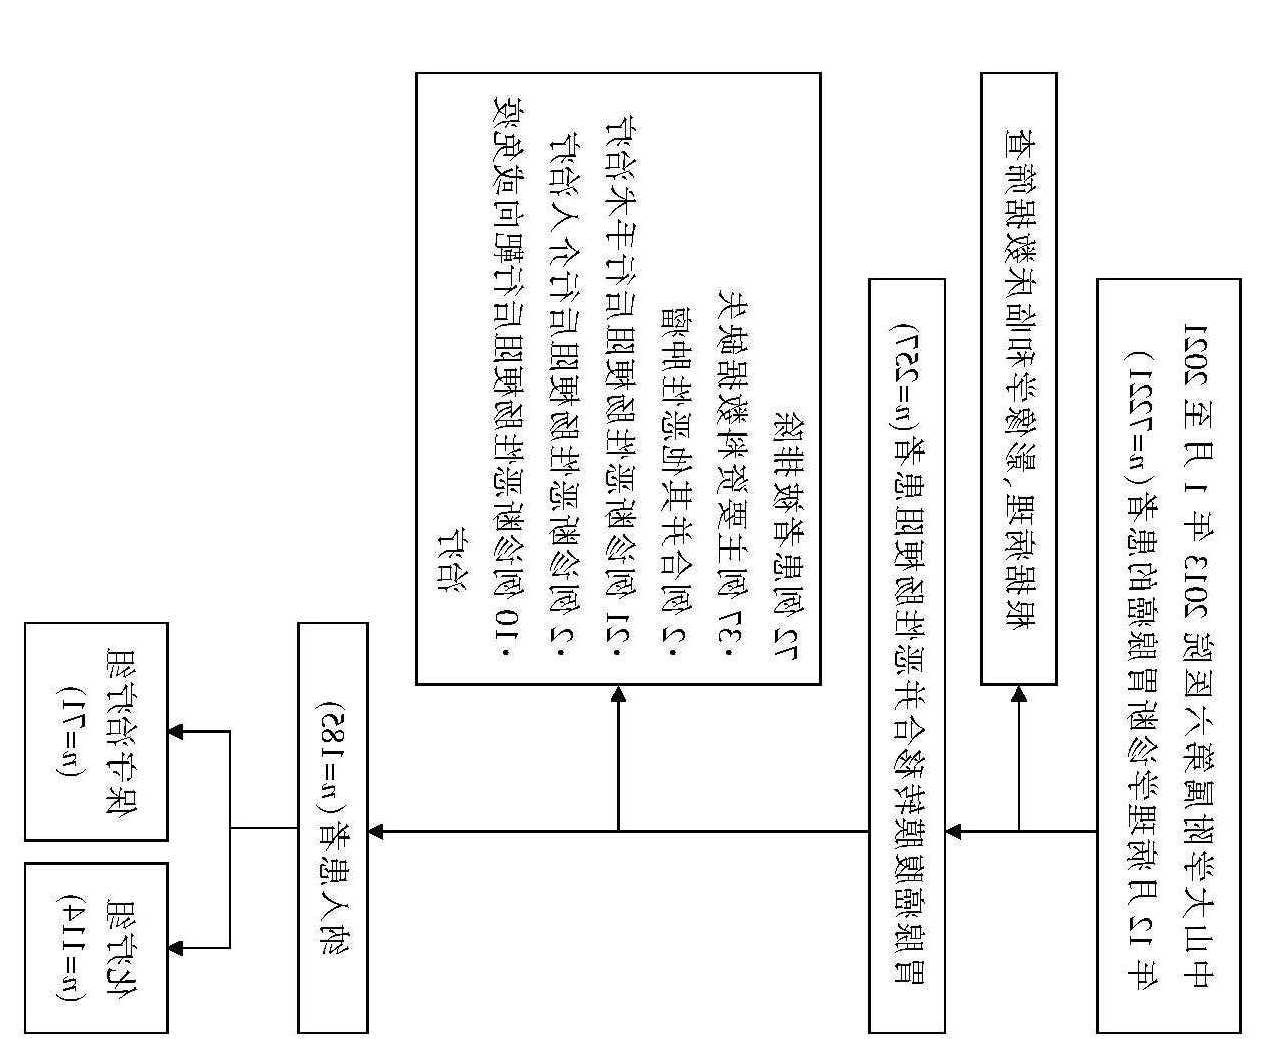
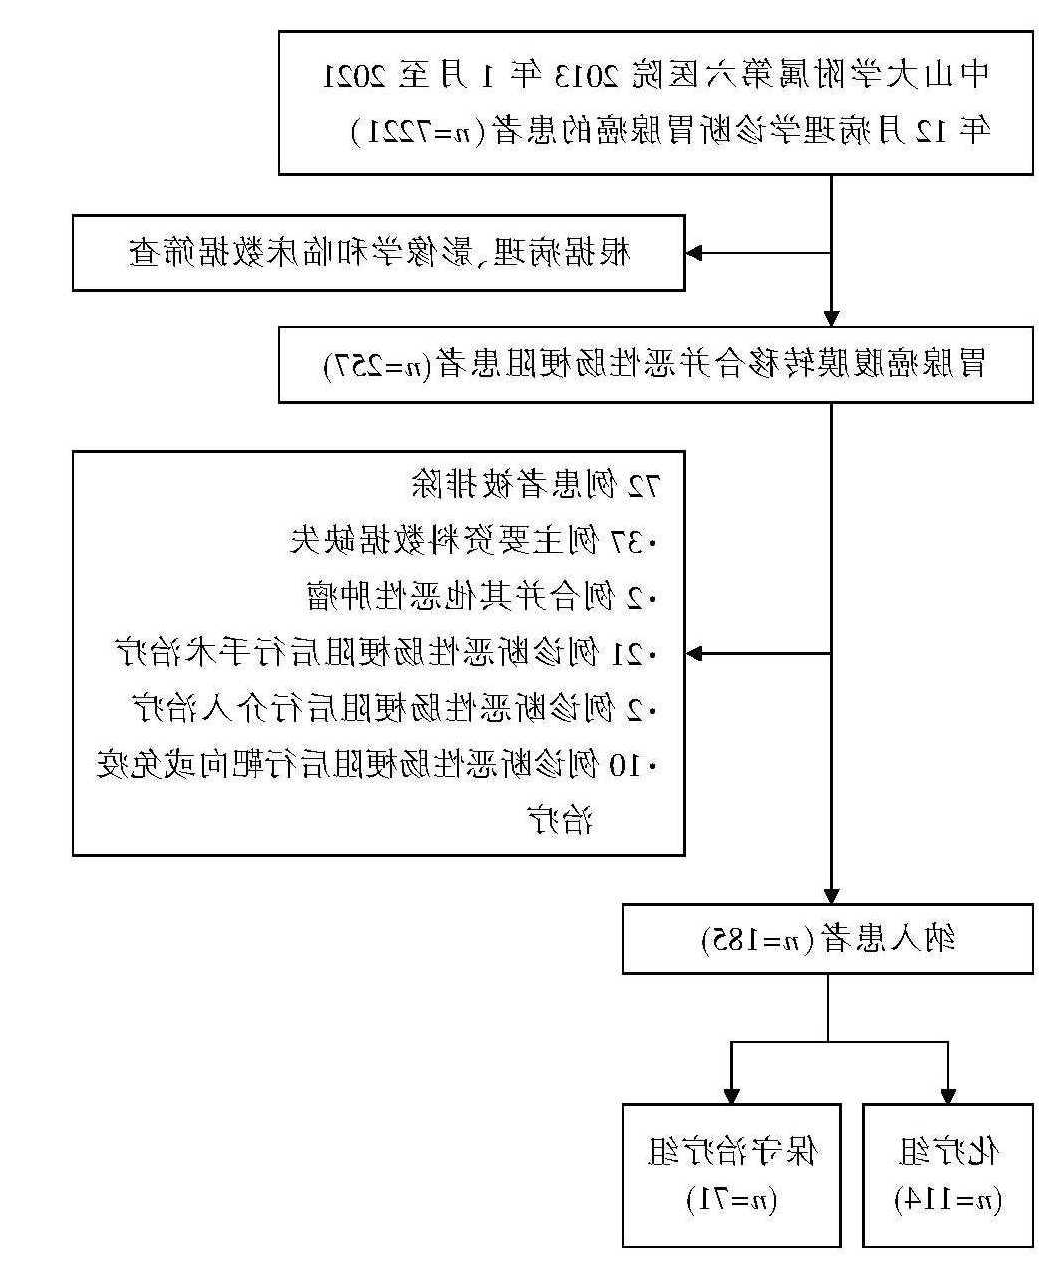
Batch 7: 3D tilt, parallax, star trail, themed sections, curated figures, fixed CN paper images
1. CN paper images finally upright: survival curve (CW 90) and
   flowchart (CCW 90) re-rotated per box-geometry + layout analysis
2. Curated figures: 1-2 best figures per paper instead of all
   (crc 1, ra-cc 2, multiplot 2, mbo-chemo 2)
3. 3D tilt on pub/road/feature cards (mouse-follow rotate)
4. Hero parallax on scroll (content drifts + fades)
5. Star trail cursor effect (colored stars follow mouse)
6. Per-section themed eyebrows (road purple / pubs blue / skills
   cyan / wechat rose) + underline decoration on section titles

diff --git a/publications/mbo-chemo.html b/publications/mbo-chemo.html
@@ -54,9 +54,8 @@
 <section class="pub-section"><h2>方法与数据</h2><p>研究回顾性筛查 2013 年 1 月至 2021 年 12 月中山大学附属第六医院收治的所有胃腺癌腹膜转移合并恶性肠梗阻病例。按确诊肠梗阻后是否行化疗分为保守治疗组与化疗组。由于两组基线可能存在系统差异，研究采用倾向性评分按 1:1 匹配，尽可能消除选择偏倚后，比较两组的梗阻缓解率、1 个月内死亡率及总生存时间。</p></section>
 <section class="pub-section"><h2>主要结果</h2><p>共匹配 71 对患者，匹配后两组基线资料可比。保守治疗组患者的梗阻缓解率为 31.0%，1 个月内死亡率为 16% 左右——这些数字本身就在提醒：即便不化疗，仍有约三分之一的患者能够自然缓解梗阻，这既是保守治疗的现实基线，也提示『等待观察』对部分患者并非全无价值。化疗能否在保守治疗之上带来额外的梗阻缓解与生存改善，正是研究要检验的核心问题。</p></section>
 <section class="pub-section"><h2>临床含义</h2><p>研究为『晚期胃腺癌腹膜转移合并 MBO 患者是否值得尝试化疗』提供了真实世界证据。在尊重患者意愿与体能状态的前提下，化疗可能为部分患者带来梗阻缓解与生存获益——但获益人群的筛选、化疗方案与剂量调整，仍是后续研究的方向。这篇研究的意义不在于给出『一定要化疗』的结论，而在于提醒临床：面对终末期标签，值得用数据重新审视治疗边界。</p></section>
-            <section class="pub-section pub-figures"><h2>论文图表</h2><figure class="pub-figure"><img src="/assets/pub-imgs/mbo_chemo_p5_14.png" alt="生存曲线：化疗组与保守治疗组的总生存比较（已修复方向）" loading="lazy"><figcaption>生存曲线：化疗组与保守治疗组的总生存比较（已修复方向）</figcaption></figure>
-<figure class="pub-figure"><img src="/assets/pub-imgs/mbo_chemo_p2_7.png" alt="病例纳入流程图：筛选与倾向性匹配过程（已修复方向）" loading="lazy"><figcaption>病例纳入流程图：筛选与倾向性匹配过程（已修复方向）</figcaption></figure>
-<figure class="pub-figure"><img src="/assets/pub-imgs/mbo_chemo_p4_11.png" alt="表 1：匹配后两组基线资料对比" loading="lazy"><figcaption>表 1：匹配后两组基线资料对比</figcaption></figure></section>
+            <section class="pub-section pub-figures"><h2>论文图表</h2><figure class="pub-figure"><img src="/assets/pub-imgs/mbo_chemo_p5_14.png" alt="生存曲线：化疗组与保守治疗组的总生存比较" loading="lazy"><figcaption>生存曲线：化疗组与保守治疗组的总生存比较</figcaption></figure>
+<figure class="pub-figure"><img src="/assets/pub-imgs/mbo_chemo_p2_7.png" alt="病例纳入流程图：筛选与倾向性匹配过程" loading="lazy"><figcaption>病例纳入流程图：筛选与倾向性匹配过程</figcaption></figure></section>
           </article>
         </div>
       </section>

diff --git a/publications/crc-icd.html b/publications/crc-icd.html
@@ -55,9 +55,7 @@
 <section class="pub-section"><h2>主要发现</h2><p>在训练队列中，签名以中位数为界将患者分为高低风险组（P=0.001，HR=1.906），1 年、2 年、5 年 AUC 分别为 0.68、0.68、0.58。单细胞表达谱证实七个基因主要由免疫细胞（T 细胞、B 细胞等）转录——这个签名反映的是『ICD 基因集衍生的免疫环境评分』，即 ICD 相关基因表达背后的免疫学状态，而非 ICD 诱导本身的直接测量。风险评分在调整免疫浸润估计后效应减弱，提示其预后信息与免疫浸润高度相关。</p></section>
 <section class="pub-section"><h2>诚实边界</h2><p>外部验证（GSE39582）呈现非显著趋势（P=0.072，HR=1.298）；5 年 AUC 降至 0.58，说明模型在长期时间窗的区分能力有限——这既可能反映基线基因表达与远期事件关联减弱，也可能受术后因素影响。研究提供的是一个产生假说的框架：预测性能中等、主要外部验证不显著、属于相关性研究。任何临床应用之前都需要独立验证。</p></section>
 <section class="pub-section"><h2>意义</h2><p>这篇工作最大的价值是方法论示范：在结肠癌和直肠癌中并行做基因筛选、把单细胞证据嵌入批量模型、对『ICD 签名』的命名与解释保持克制——明确指出它测量的是免疫环境而非 ICD 本身。它提示：免疫特征签名要经得起外部数据、细胞来源和混淆因素的层层拷问，而诚实报告局限性本身就是科学严谨性的体现。</p></section>
-            <section class="pub-section pub-figures"><h2>论文图表</h2><figure class="pub-figure"><img src="/assets/pub-imgs/crc_icd_p6_96.png" alt="Figure 1：14 个子图全景——基因模块、生存曲线、表达差异与签名构建流程" loading="lazy"><figcaption>Figure 1：14 个子图全景——基因模块、生存曲线、表达差异与签名构建流程</figcaption></figure>
-<figure class="pub-figure"><img src="/assets/pub-imgs/crc_icd_p9_142.png" alt="基因网络图：七基因签名与免疫微环境的相关结构" loading="lazy"><figcaption>基因网络图：七基因签名与免疫微环境的相关结构</figcaption></figure>
-<figure class="pub-figure"><img src="/assets/pub-imgs/crc_icd_p11_168.png" alt="表达热图：签名基因在不同风险组的分布模式" loading="lazy"><figcaption>表达热图：签名基因在不同风险组的分布模式</figcaption></figure></section>
+            <section class="pub-section pub-figures"><h2>论文图表</h2><figure class="pub-figure"><img src="/assets/pub-imgs/crc_icd_p6_96.png" alt="Figure 1：14 个子图全景——基因模块、生存曲线、表达差异与签名构建流程" loading="lazy"><figcaption>Figure 1：14 个子图全景——基因模块、生存曲线、表达差异与签名构建流程</figcaption></figure></section>
           </article>
         </div>
       </section>

diff --git a/assets/site.js b/assets/site.js
@@ -1099,3 +1099,73 @@ function initClickStars() {
 
 initTitleChars()
 initClickStars()
+
+/* ───────────── 卡片 3D tilt（鼠标跟随旋转） ───────────── */
+
+function initTilt() {
+  if (window.matchMedia("(prefers-reduced-motion: reduce)").matches) return
+  const cards = document.querySelectorAll(".pub-row, .road-step, .feature-tile")
+  if (!cards.length) return
+  cards.forEach((card) => {
+    card.addEventListener("mousemove", (e) => {
+      const rect = card.getBoundingClientRect()
+      const x = (e.clientX - rect.left) / rect.width - 0.5
+      const y = (e.clientY - rect.top) / rect.height - 0.5
+      card.style.setProperty("--rx", `${(-y * 4).toFixed(2)}deg`)
+      card.style.setProperty("--ry", `${(x * 6).toFixed(2)}deg`)
+    })
+    card.addEventListener("mouseleave", () => {
+      card.style.setProperty("--rx", "0deg")
+      card.style.setProperty("--ry", "0deg")
+    })
+  })
+}
+
+/* ───────────── Hero 滚动视差 ───────────── */
+
+function initParallax() {
+  const heroContent = document.querySelector(".hero-copy")
+  const hero = document.querySelector(".hero")
+  if (!heroContent || !hero) return
+  if (window.matchMedia("(prefers-reduced-motion: reduce)").matches) return
+  window.addEventListener(
+    "scroll",
+    () => {
+      const y = window.scrollY
+      if (y < window.innerHeight * 1.2) {
+        heroContent.style.transform = `translateY(${y * 0.16}px)`
+        heroContent.style.opacity = String(Math.max(0, 1 - y / (window.innerHeight * 0.75)))
+      }
+    },
+    { passive: true },
+  )
+}
+
+/* ───────────── 星空鼠标拖尾 ───────────── */
+
+function initStarTrail() {
+  if (window.matchMedia("(prefers-reduced-motion: reduce)").matches) return
+  if (window.matchMedia("(hover: none)").matches) return
+  const colors = ["#64ffda", "#a78bfa", "#93c5fd", "#fde68a", "#f9a8d4"]
+  let last = 0
+  document.addEventListener(
+    "mousemove",
+    (e) => {
+      const now = Date.now()
+      if (now - last < 70) return
+      last = now
+      const star = document.createElement("span")
+      star.className = "trail-star"
+      star.style.left = `${e.clientX}px`
+      star.style.top = `${e.clientY}px`
+      star.style.background = colors[Math.floor(Math.random() * colors.length)]
+      document.body.appendChild(star)
+      setTimeout(() => star.remove(), 700)
+    },
+    { passive: true },
+  )
+}
+
+initTilt()
+initParallax()
+initStarTrail()

diff --git a/publications/ra-cervical-cancer.html b/publications/ra-cervical-cancer.html
@@ -56,9 +56,7 @@
 <section class="pub-section"><h2>科学含义</h2><p>研究提示：慢性炎症、免疫失调与趋化因子通路可能共同解释了 RA 患者宫颈癌易感性升高的现象。从机制上看，HPV 感染驱动的慢性炎症与 RA 的自身免疫炎症可能通过趋化因子网络产生叠加效应，加速宫颈上皮的恶变进程。CXCL1 与趋化因子通路既是潜在的机制线索，也可能是 RA 合并宫颈癌的干预靶点。</p></section>
 <section class="pub-section"><h2>局限与展望</h2><p>研究的主要局限：缺乏同时患 RA 与 CC 的病例数据，限制了直接验证能力；所有数据来自公共数据库，需要实验与临床研究进一步验证；潜在混杂因素（如免疫抑制治疗史、HPV 感染状态）需要更精细的建模。这也是所有公共数据库研究的共性功课——生信发现是起点，不是终点。</p></section>
             <section class="pub-section pub-figures"><h2>论文图表</h2><figure class="pub-figure"><img src="/assets/pub-imgs/ra_cc_p16_314.png" alt="研究技术路线：从差异基因到预后模型的全流程分析框架" loading="lazy"><figcaption>研究技术路线：从差异基因到预后模型的全流程分析框架</figcaption></figure>
-<figure class="pub-figure"><img src="/assets/pub-imgs/ra_cc_p3_62.png" alt="Figure 1：RA 与 CC 差异表达基因热图与维恩图交集" loading="lazy"><figcaption>Figure 1：RA 与 CC 差异表达基因热图与维恩图交集</figcaption></figure>
-<figure class="pub-figure"><img src="/assets/pub-imgs/ra_cc_p9_188.png" alt="预后模型综合图：风险评分、生存曲线、ROC 与表达模式" loading="lazy"><figcaption>预后模型综合图：风险评分、生存曲线、ROC 与表达模式</figcaption></figure>
-<figure class="pub-figure"><img src="/assets/pub-imgs/ra_cc_p8_168.png" alt="ROC 曲线：四个关键基因在 RA 与 CC 中的诊断价值" loading="lazy"><figcaption>ROC 曲线：四个关键基因在 RA 与 CC 中的诊断价值</figcaption></figure></section>
+<figure class="pub-figure"><img src="/assets/pub-imgs/ra_cc_p9_188.png" alt="预后模型综合图：风险评分、生存曲线、ROC 与表达模式" loading="lazy"><figcaption>预后模型综合图：风险评分、生存曲线、ROC 与表达模式</figcaption></figure></section>
           </article>
         </div>
       </section>

diff --git a/publications/multiplot.html b/publications/multiplot.html
@@ -56,9 +56,7 @@
 <section class="pub-section"><h2>意义</h2><p>对科研团队来说，这解决了一个真实痛点：协作与投稿时，图风格统一意味着沟通成本下降、审稿体验更好。对 R 生态来说，它是第一个把『软件风格』当作可形式化对象（Ontology）来建模的工具——风格不是玄学，而是可以测量、比较和复现的参数空间。这种『把隐性知识显性化』的思路，本身就是可复现科学的一部分。</p></section>
 <section class="pub-section"><h2>展望</h2><p>当前处于开放同行评审阶段（Awaiting peer review），欢迎社区反馈。未来方向包括：更多软件风格（如 GraphPad 新版、JMP）、交互式风格预览、与 Quarto/R Markdown 论文流水线的更深度集成，以及基于真实审稿反馈的出版合规检查。</p></section>
             <section class="pub-section pub-figures"><h2>论文图表</h2><figure class="pub-figure"><img src="/assets/pub-imgs/multiplot_p4_130.png" alt="同一数据在多种软件风格下的呈现：箱线图风格对比" loading="lazy"><figcaption>同一数据在多种软件风格下的呈现：箱线图风格对比</figcaption></figure>
-<figure class="pub-figure"><img src="/assets/pub-imgs/multiplot_p9_181.png" alt="KM 生存曲线：医学论文中最常见的图形类型之一" loading="lazy"><figcaption>KM 生存曲线：医学论文中最常见的图形类型之一</figcaption></figure>
-<figure class="pub-figure"><img src="/assets/pub-imgs/multiplot_p7_160.png" alt="双热图对比：彩色方案 vs 学术灰度方案" loading="lazy"><figcaption>双热图对比：彩色方案 vs 学术灰度方案</figcaption></figure>
-<figure class="pub-figure"><img src="/assets/pub-imgs/multiplot_p6_154.png" alt="折线图：时间序列数据的三组对比" loading="lazy"><figcaption>折线图：时间序列数据的三组对比</figcaption></figure></section>
+<figure class="pub-figure"><img src="/assets/pub-imgs/multiplot_p9_181.png" alt="KM 生存曲线：医学论文中最常见的图形类型之一" loading="lazy"><figcaption>KM 生存曲线：医学论文中最常见的图形类型之一</figcaption></figure></section>
           </article>
         </div>
       </section>

diff --git a/assets/styles.css b/assets/styles.css
@@ -3616,3 +3616,80 @@ body {
 .pub-reading a:hover {
   border-bottom-color: var(--pub-theme, var(--accent));
 }
+
+/* ── 第七批：3D tilt / 视差 / 拖尾 / 区块主题色 ── */
+
+/* 卡片 tilt：hover transform 使用 JS 变量 */
+.pub-row,
+.road-step,
+.feature-tile {
+  transform: perspective(760px) rotateX(var(--rx, 0deg)) rotateY(var(--ry, 0deg)) translateY(var(--ty, 0));
+  transition: transform 0.16s ease-out, box-shadow 0.28s ease, border-color 0.22s ease;
+  will-change: transform;
+}
+
+.pub-row:hover,
+.road-step:hover,
+.feature-tile:hover {
+  transform: perspective(760px) rotateX(var(--rx, 0deg)) rotateY(var(--ry, 0deg)) translateY(-5px);
+}
+
+/* hero 文字视差平滑 */
+.hero-copy {
+  transition: transform 0.25s ease-out, opacity 0.25s ease-out;
+  will-change: transform, opacity;
+}
+
+/* 鼠标星空拖尾 */
+.trail-star {
+  position: fixed;
+  z-index: 140;
+  width: 6px;
+  height: 6px;
+  border-radius: 50%;
+  pointer-events: none;
+  box-shadow: 0 0 10px currentColor;
+  animation: trail-fade 0.7s ease-out forwards;
+}
+
+.trail-star::after {
+  content: "";
+  position: absolute;
+  inset: -3px;
+  border-radius: 50%;
+  background: inherit;
+  opacity: 0.4;
+}
+
+@keyframes trail-fade {
+  0% { transform: translate(-50%, -50%) scale(1); opacity: 0.95; }
+  100% { transform: translate(-50%, -50%) scale(0.15) rotate(120deg); opacity: 0; }
+}
+
+/* 区块主题色（各 section 的 eyebrow/标题点缀） */
+#road .eyebrow { color: var(--violet); text-shadow: 0 0 16px rgba(167, 139, 250, 0.4); }
+#publications .eyebrow { color: #2563eb; text-shadow: 0 0 16px rgba(37, 99, 235, 0.35); }
+#skills-hub .eyebrow { color: #0ea5e9; text-shadow: 0 0 16px rgba(14, 165, 233, 0.35); }
+#wechat .eyebrow { color: #e11d48; text-shadow: 0 0 16px rgba(225, 29, 72, 0.3); }
+
+/* section-head 标题下划线装饰 */
+.section-head h2 {
+  position: relative;
+}
+
+.section-head h2::after {
+  content: "";
+  position: absolute;
+  left: 0;
+  bottom: -8px;
+  width: 46px;
+  height: 3px;
+  border-radius: 3px;
+  background: var(--grad-cta);
+  animation: underline-grow 1.2s ease-out;
+}
+
+@keyframes underline-grow {
+  from { width: 0; }
+  to { width: 46px; }
+}

diff --git a/index.html b/index.html
@@ -97,7 +97,7 @@
         <div class="hero-scroll-hint" aria-hidden="true">SCROLL</div>
       </section>
 
-      <section class="section section-tint reveal" id="publications">
+      <section class="section section-tint reveal" id="publications" id="wechat">
         <div class="container" style="position: relative;">
           <span class="floating-deco" style="top: -18px; right: 4%;" aria-hidden="true">🧬</span>
           <div class="section-head">
@@ -152,7 +152,7 @@
         </div>
       </section>
 
-      <section class="section reveal">
+      <section class="section reveal" id="skills-hub">
         <div class="container">
           <div class="section-head">
             <div>
